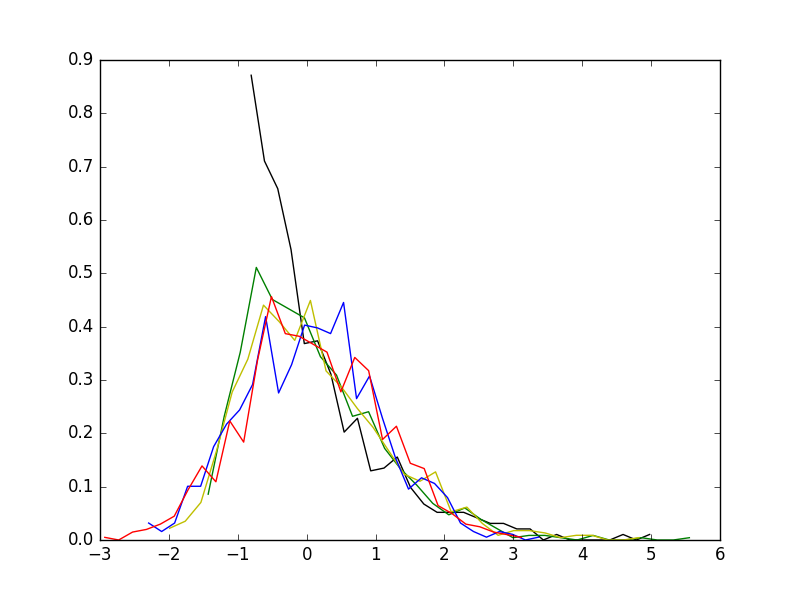
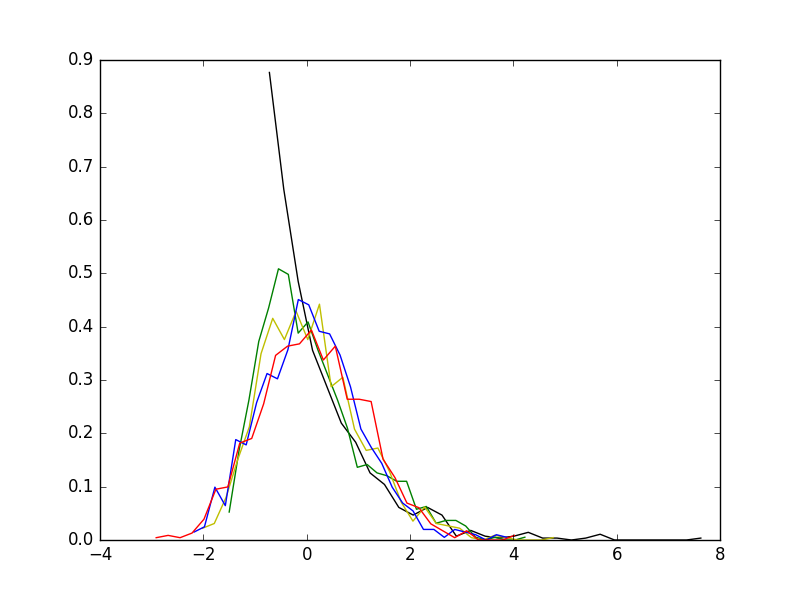
update test convergence.

diff --git a/probility/test_convergence.py b/probility/test_convergence.py
@@ -15,6 +15,16 @@ def distribute_funU():
 
     return mu, var, f
 
+def distribute_funBinomial():
+    n = 10
+    p = .3    #更符合正态分布一些。取0.1之类的，就用 poisson之类的来模拟吧
+    mu = n*p
+    var = n* p*(1-p)
+    def f():
+        return np.random.binomial(n, p, 1)
+
+    return mu, var, f
+
 '''
 f(x; beta) = 1/beta*exp(-x/beta)
 F(x; beta) = 1 - exp(-x/beta) , x>0
@@ -128,13 +138,21 @@ def test_CLT(n, dis_f, normed, color):
     return None
 
 if __name__ == "__main__":
+    print "test WLLN for uniform sample:"
     for i in xrange(20):
         test_WLLN(100, distribute_funU)
 
     print "\n"
 
+    print "test WLLN for Exp sample:"
     for i in xrange(20):
         test_WLLN(100, distribute_funExp)
+
+    print "\n"
+    print "test WLLN for binomial sample:"
+
+    for i in xrange(20):
+        test_WLLN(100, distribute_funBinomial)
 
     colors = ['k', 'g', 'y', 'b', 'r', 'm', 'y']
     plt.clf()
@@ -158,6 +176,15 @@ if __name__ == "__main__":
     plt.savefig('images/convergence/convergence_exp.png', format='png')
 
     plt.clf()
+    id = 0
+    for i in n_list:
+        color = colors[id % len(colors)]
+        test_CLT(i, distribute_funBinomial, normed = normed, color=color)
+        id += 1
+
+    plt.savefig('images/convergence/convergence_binomial.png', format='png')
+
+    plt.clf()
     normed = True 
     id = 0
     for i in n_list:
@@ -175,3 +202,21 @@ if __name__ == "__main__":
         id += 1
 
     plt.savefig('images/convergence/convergence_exp_normed.png', format='png')
+
+    plt.clf()
+    id = 0
+    for i in n_list:
+        color = colors[id % len(colors)]
+        test_CLT(i, distribute_funExp, normed = normed, color=color)
+        id += 1
+
+    plt.savefig('images/convergence/convergence_exp_normed.png', format='png')
+
+    plt.clf()
+    id = 0
+    for i in n_list:
+        color = colors[id % len(colors)]
+        test_CLT(i, distribute_funBinomial, normed = normed, color=color)
+        id += 1
+
+    plt.savefig('images/convergence/convergence_binomial_normed.png', format='png')

diff --git a/README.md b/README.md
@@ -67,7 +67,7 @@
 
 
 ####  8) 概率收敛性测试
->   主要写了两个收敛性的测试：大数定律、中心极限定理。参考见代码和图
+>   主要写了两个收敛性的测试：大数定律、中心极限定理。Xi样本分别来自均匀分布、指数分布、二项分布。代码和图见下
 
 >   code:[probility/test_convergence.py](probility/test_convergence.py)
 
